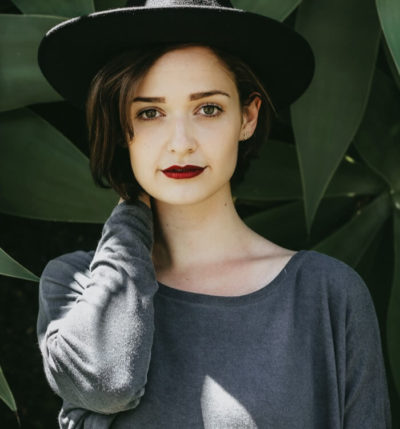
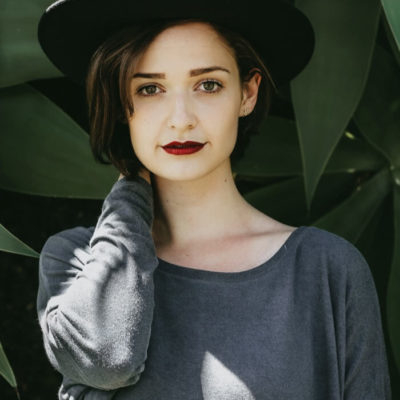
FIX Layout responsiveness and ADD more style

diff --git a/index.html b/index.html
@@ -6,6 +6,11 @@
     <meta http-equiv="X-UA-Compatible" content="IE=edge">
     <meta name="viewport" content="width=device-width, initial-scale=1.0">
 
+    <!-- GOOGLE FONTS -->
+    <link rel="preconnect" href="https://fonts.googleapis.com">
+    <link rel="preconnect" href="https://fonts.gstatic.com" crossorigin>
+    <link href="https://fonts.googleapis.com/css2?family=Playfair+Display:ital,wght@0,400;0,500;0,700;1,400&display=swap" rel="stylesheet">
+
     <!-- BOOTSTRAP CSS CDN -->
     <link href="https://cdn.jsdelivr.net/npm/bootstrap@5.2.3/dist/css/bootstrap.min.css" rel="stylesheet" integrity="sha384-rbsA2VBKQhggwzxH7pPCaAqO46MgnOM80zW1RWuH61DGLwZJEdK2Kadq2F9CUG65" crossorigin="anonymous">
     
@@ -14,12 +19,18 @@
     <title>Our Team</title>
   </head>
   
-  <body>
+  <body class="bg-light">
 
     <div class="container">
-      <div class="row row-cols-lg-3">
+
+      <h1 class="display-1 text-uppercase text-center text-dark fw-bold">
+        MEET OUR TEAM
+      </h1>
+
+      <div class="row row-cols-1 row-cols-md-3">
+        <!-- WILL BE FILLED BY JS CODE -->
       </div>
-      <!-- /.row row-cols-lg-3 -->
+      <!-- /.row row-cols-1 row-cols-lg-3 -->
     </div>
     <!-- /.container -->
 

diff --git a/assets/js/main.js b/assets/js/main.js
@@ -112,12 +112,15 @@ function createSingleMemberMarkup(teamMembers) {
     const singleMemberElement = document.createElement("div");
     singleMemberElement.classList.add("col", "my-4");
     singleMemberElement.innerHTML = `
-    <div class="card">
-      <div class="card-header text-center">
-        <strong>${thisMember.name}</strong>
+    <div class="card border-dark">
+      <div class="card-header text-center fs-3 fw-bold bg-light text-dark">
+        <span>${thisMember.name}</span>
       </div>
-      <div class="card-body text-center">
-        <img src="${thisMember.photo}" class="img-card-top img-fluid mb-3 rounded-3">
+      <div class="card-body bg-white">
+        <img src="${thisMember.photo}" class="card-img-top rounded-circle">
+        <br>
+      </div>
+      <div class="card-footer text-center bg-light text-dark fs-5 fst-italic">
         <span>${thisMember.role}</span>
       </div>
     </div>`

diff --git a/assets/css/style.css b/assets/css/style.css
@@ -1,0 +1,24 @@
+body {
+  font-family: 'Playfair Display', serif;
+}
+
+.card-header,
+.card-footer {
+  transition: background-color 0.5s, color 0.5s !important;
+}
+
+.card:hover .card-header,
+.card:hover .card-footer {
+  background-color: rgb(33, 37, 41) !important;
+  color: rgb(248, 249, 250) !important;
+}
+
+img {
+  transform: scale(0.8);
+  transition: 0.5s;
+}
+
+img:hover {
+  transform: scale(1);
+  border-radius: 1rem !important;
+}
